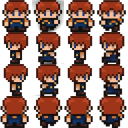
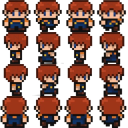
baita melhoria no movimento, mais fluido. PNG removido a sombra

Changed region(s): [[0.25, 0.0, 0.5, 0.25]]

diff --git a/wwwroot/script.js b/wwwroot/script.js
@@ -1,71 +1,63 @@
-const keys = {};
-// =======================
+// ===============================
 // CANVAS
-// =======================
+// ===============================
 
 const canvas = document.getElementById("game");
 const ctx = canvas.getContext("2d");
 
-// =======================
-// BACKGROUND
-// =======================
+// ===============================
+// CONFIG
+// ===============================
 
-document.addEventListener("keydown", e => {
-    keys[e.key] = true;
-});
+const MOVE_SPEED = 120; // pixels por segundo
+const NETWORK_RATE = 50; // ms (20 updates por segundo)
 
-document.addEventListener("keyup", e => {
-    keys[e.key] = false;
-});
+const FRAME_WIDTH = 32;
+const FRAME_HEIGHT = 32;
+const FRAME_COUNT = 4;
+const ANIMATION_SPEED = 10;
+
+// ===============================
+// ASSETS
+// ===============================
 
 const bg = new Image();
 bg.src = "mapa.png";
 
-let bgLoaded = false;
-
-bg.onload = () => {
-    bgLoaded = true;
-};
-
-// =======================
-// SPRITE CONFIG
-// =======================
-
 const playerSprite = new Image();
 playerSprite.src = "player.png";
 
-const FRAME_WIDTH = 32;
-const FRAME_HEIGHT = 32;
-const FRAME_COUNT = 4; // 4 colunas
-const ANIMATION_SPEED = 8;
+// ===============================
+// STATE
+// ===============================
 
+let players = {};
+let myId = null;
+let keys = {};
+let lastTime = 0;
 let animationTick = 0;
+let lastNetworkUpdate = 0;
 
-// =======================
+// ===============================
 // SIGNALR
-// =======================
+// ===============================
 
 const connection = new signalR.HubConnectionBuilder()
     .withUrl("/gamehub")
     .build();
 
-let players = {};
-let myId = null;
-
 connection.on("PlayerJoined", player => {
-    players[player.id] = {
-        ...player,
-        direction: 0, // 0 baixo, 1 esquerda, 2 direita, 3 cima
-        frame: 0,
-        moving: false
-    };
+    players[player.id] = createPlayer(player);
 });
 
 connection.on("PlayerMoved", player => {
     if (!players[player.id]) return;
 
-    players[player.id].x = player.x;
-    players[player.id].y = player.y;
+    if (player.id !== myId) {
+        // Interpolação simples
+        players[player.id].targetX = player.x;
+        players[player.id].targetY = player.y;
+    }
 });
 
 connection.on("PlayerLeft", id => {
@@ -76,92 +68,127 @@ connection.start().then(() => {
     myId = connection.connectionId;
 });
 
-// =======================
-// MOVIMENTO
-// =======================
+// ===============================
+// PLAYER FACTORY
+// ===============================
+
+function createPlayer(data) {
+    return {
+        id: data.id,
+        x: data.x,
+        y: data.y,
+        targetX: data.x,
+        targetY: data.y,
+        direction: 0,
+        frame: 0,
+        moving: false
+    };
+}
+
+// ===============================
+// INPUT
+// ===============================
 
 document.addEventListener("keydown", e => {
+    keys[e.key] = true;
+});
+
+document.addEventListener("keyup", e => {
+    keys[e.key] = false;
+});
+
+// ===============================
+// UPDATE
+// ===============================
+
+function update(deltaTime) {
+
     if (!players[myId]) return;
 
     let p = players[myId];
-    p.moving = true;
+    p.moving = false;
 
-    if (e.key === "ArrowUp") {
-        p.y -= 5;
+    let distance = MOVE_SPEED * deltaTime;
+
+    if (keys["ArrowUp"]) {
+        p.y -= distance;
         p.direction = 3;
+        p.moving = true;
     }
 
-    if (e.key === "ArrowDown") {
-        p.y += 5;
+    if (keys["ArrowDown"]) {
+        p.y += distance;
         p.direction = 0;
+        p.moving = true;
     }
 
-    if (e.key === "ArrowLeft") {
-        p.x -= 5;
+    if (keys["ArrowLeft"]) {
+        p.x -= distance;
         p.direction = 1;
+        p.moving = true;
     }
 
-    if (e.key === "ArrowRight") {
-        p.x += 5;
+    if (keys["ArrowRight"]) {
+        p.x += distance;
         p.direction = 2;
+        p.moving = true;
     }
 
-    connection.invoke("Move", p.x, p.y);
-});
+    // Interpolação dos outros players
+    for (let id in players) {
+        if (id === myId) continue;
 
-document.addEventListener("keyup", () => {
+        let other = players[id];
+
+        other.x += (other.targetX - other.x) * 0.1;
+        other.y += (other.targetY - other.y) * 0.1;
+    }
+}
+
+// ===============================
+// NETWORK TICK
+// ===============================
+
+function networkTick(time) {
+
     if (!players[myId]) return;
 
-    players[myId].moving = false;
-    players[myId].frame = 0;
-});
+    if (time - lastNetworkUpdate > NETWORK_RATE) {
+        let p = players[myId];
+        connection.invoke("Move", p.x, p.y);
+        lastNetworkUpdate = time;
+    }
+}
 
-// =======================
-// DRAW LOOP
-// =======================
+// ===============================
+// RENDER
+// ===============================
 
-function gameLoop() {
-
-    update();
+function render() {
 
     ctx.clearRect(0, 0, canvas.width, canvas.height);
 
-    if (bgLoaded) {
-        drawBackground();
-    }
+    drawBackground();
 
-    for (let id in players) {
-        drawPlayer(players[id]);
-    }
+    // Ordenar por Y (profundidade 2.5D)
+    const sortedPlayers = Object.values(players)
+        .sort((a, b) => a.y - b.y);
 
-    requestAnimationFrame(gameLoop);
+    for (let p of sortedPlayers) {
+        drawPlayer(p);
+    }
 }
 
 function drawBackground() {
-    const imgRatio = bg.width / bg.height;
-    const canvasRatio = canvas.width / canvas.height;
-
-    let drawWidth, drawHeight;
-
-    if (imgRatio > canvasRatio) {
-        drawHeight = canvas.height;
-        drawWidth = canvas.height * imgRatio;
-    } else {
-        drawWidth = canvas.width;
-        drawHeight = canvas.width / imgRatio;
-    }
-
-    const x = (canvas.width - drawWidth) / 2;
-    const y = (canvas.height - drawHeight) / 2;
-
-    ctx.drawImage(bg, x, y, drawWidth, drawHeight);
+    ctx.drawImage(bg, 0, 0, canvas.width, canvas.height);
 }
 
 function drawPlayer(p) {
 
+    if (!playerSprite.complete || playerSprite.naturalWidth === 0) return;
+
     if (p.moving) {
         animationTick++;
-
         if (animationTick % ANIMATION_SPEED === 0) {
             p.frame = (p.frame + 1) % FRAME_COUNT;
         }
@@ -182,46 +209,20 @@ function drawPlayer(p) {
     );
 }
 
-function update() {
+// ===============================
+// GAME LOOP
+// ===============================
 
-    if (!players[myId]) return;
+function gameLoop(time) {
 
-    let p = players[myId];
-    let speed = 2;
+    let deltaTime = (time - lastTime) / 1000;
+    lastTime = time;
 
-    p.moving = false;
+    update(deltaTime);
+    networkTick(time);
+    render();
 
-    if (keys["ArrowUp"]) {
-        p.y -= speed;
-        p.direction = 3;
-        p.moving = true;
-    }
-
-    if (keys["ArrowDown"]) {
-        p.y += speed;
-        p.direction = 0;
-        p.moving = true;
-    }
-
-    if (keys["ArrowLeft"]) {
-        p.x -= speed;
-        p.direction = 1;
-        p.moving = true;
-    }
-
-    if (keys["ArrowRight"]) {
-        p.x += speed;
-        p.direction = 2;
-        p.moving = true;
-    }
-
-    if (p.moving) {
-        connection.invoke("Move", p.x, p.y);
-    }
+    requestAnimationFrame(gameLoop);
 }
 
-// =======================
-// START
-// =======================
-
-gameLoop();
+requestAnimationFrame(gameLoop);
